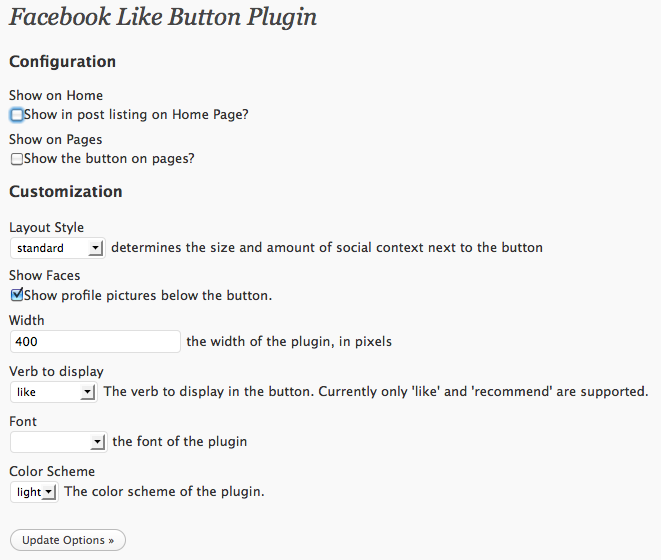
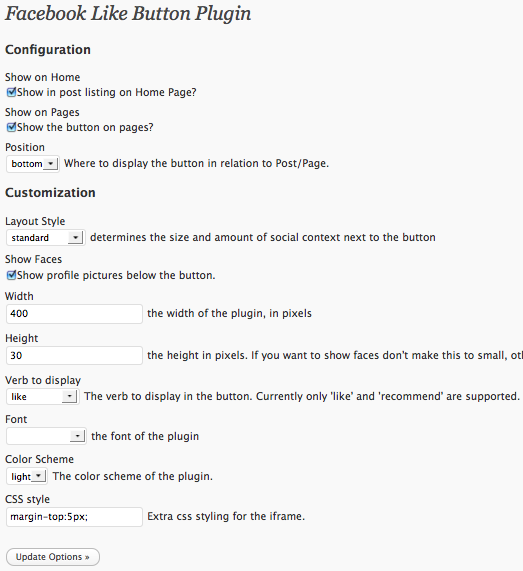
Added position, iframe css style options
git-svn-id: https://plugins.svn.wordpress.org/facebook-like-button-plugin/trunk@233903 b8457f37-d9ea-0310-8a92-e5e31aec5664

Changed region(s): [[0.0, 0.0, 1.0, 0.9107], [0.0, 0.9411, 0.1836, 1.0]]

diff --git a/facebook-like-button-plugin.php b/facebook-like-button-plugin.php
@@ -3,7 +3,7 @@
  * Plugin Name: Facebook Like Button Plugin
  * Plugin URI: http://martinj.net/wordpress-plugins/facebook-like-button
  * Description: The new Facebook like button.
- * Version: 1.0
+ * Version: 1.1
  * Author: Martin Jonsson
  * Author URI: http://martinj.net
  *
@@ -19,15 +19,21 @@ function facebook_like_button_plugin_output($out = '') {
 	
 	if (!$options['show_on_pages'] && is_page()) return $out;
 	if (!$options['show_on_home'] && is_home()) return $out;
-$out .= 
-	'<p><iframe src="http://www.facebook.com/plugins/like.php?href='.urlencode(get_permalink($post->id)).
-	'&amp;layout=' .$options['layout']. 
-	'&amp;'. ($options['show_faces'] ? 'show_faces=true' : '') .
-	'&amp;width=' . $options['width'] .
-	'&amp;action=' . $options['action'] .
-	(strlen($options['font']) > 0 ? '&amp;font=' . $options['font'] : '') .
-	'&amp;colorscheme=' . $options['colorscheme'] .
-	'" scrolling="no" frameborder="0" allowTransparency="true" style="border:none; overflow:hidden; width:'.$options['width'].'px;'.($options['height'] ? 'height:'.$options['height'].'px;': '').'"></iframe></p>';
+	$iframe = 
+		'<iframe src="http://www.facebook.com/plugins/like.php?href='.urlencode(get_permalink($post->id)).
+		'&amp;layout=' .$options['layout']. 
+			'&amp;'. ($options['show_faces'] ? 'show_faces=true' : '') .
+			'&amp;width=' . $options['width'] .
+			'&amp;action=' . $options['action'] .
+			(strlen($options['font']) > 0 ? '&amp;font=' . $options['font'] : '') .
+			'&amp;colorscheme=' . $options['colorscheme'] .
+			'" scrolling="no" frameborder="0" allowTransparency="true" style="border:none; overflow:hidden; width:'.$options['width'].'px;'.($options['height'] ? 'height:'.$options['height'].'px;': '').($options['iframe_style'] ? $options['iframe_style'] : '').'"></iframe>';
+	
+	if ($options['position'] == 'top') {
+		$out = $iframe . $out;
+	} else {
+		$out .= $iframe;
+	}
 		
 	return $out;
 }
@@ -47,13 +53,14 @@ function facebook_like_button_plugin_wp_head() {
 function facebook_like_button_plugin_defaults($options) {
 	if (!isset($options['show_on_pages'])) $options['show_on_pages'] = false;	
 	if (!isset($options['show_on_home'])) $options['show_on_home'] = false;	
-	
 	if (!isset($options['show_faces'])) $options['show_faces'] = true;
 	if (!$options['layout']) $options['layout'] = 'standard';
 	if (!$options['width']) $options['width'] = '450';
 	if (!$options['action']) $options['action'] = 'like';
 	if (!$options['colorscheme']) $options['colorscheme'] = 'light';
-
+	if (!$options['position']) $options['position'] = 'bottom';
+	if (!isset($options['iframe_style'])) $options['iframe_style'] = 'margin-top:5px;';		
+	
 	return $options;
 }
 
@@ -71,6 +78,9 @@ function facebook_like_button_plugin_options() {
 		$submitted_options['action'] = stripslashes($_POST["action"]);
 		$submitted_options['font'] = stripslashes($_POST["font"]);
 		$submitted_options['colorscheme'] = stripslashes($_POST["colorscheme"]);
+		$submitted_options['position'] = stripslashes($_POST["position"]);
+		$submitted_options['iframe_style'] = stripslashes($_POST["iframe_style"]);
+				
 		update_option('facebook_like_button_plugin_options', serialize($submitted_options));
 	}
 	
@@ -96,6 +106,16 @@ function facebook_like_button_plugin_options() {
 				</dt>
 					<dd>
 						<input name="show_on_pages" id="param_show_on_pages" value="true" '.($options['show_on_pages'] ? 'checked="1"' : '').' type="checkbox"><label for="param_show_on_pages">Show the button on pages?</label>					
+					</dd>
+				<dt>
+					Position
+				</dt>
+					<dd>
+						<select name="position">
+							<option value="bottom" '. ($options['position'] == 'bottom' ? 'selected="1"' : '') . '>bottom</option>
+							<option value="top" '. ($options['position'] == 'top' ? 'selected="1"' : '') . '>top</option>
+						</select>
+						<span>Where to display the button in relation to Post/Page.</span>
 					</dd>
 			</dl>
 			
@@ -129,7 +149,7 @@ function facebook_like_button_plugin_options() {
 				</dt>
 					<dd>
 						<input name="height" id="param_height" value="'.$options['height'].'" class="small-text" type="text">
-						<span>the height in pixels. If you want to show faces you probably want to leave this alone, otherwise 30 is a good height.</span>
+						<span>the height in pixels. If you want to show faces don\'t make this to small, otherwise 30 is a good height.</span>
 					</dd>
 				<dt>
 					<label for="param_action">Verb to display</label>
@@ -166,6 +186,13 @@ function facebook_like_button_plugin_options() {
 						</select>
 						<span>The color scheme of the plugin.</span>
 					</dd>
+				<dt>
+					<label for="param_iframe_style">CSS style</label>
+				</dt>
+					<dd>
+						<input name="iframe_style" id="param_iframe_style" value="'.$options['iframe_style'].'" class="regular-text" type="text">
+						<span>Extra css styling for the iframe.</span>
+					</dd>					
 			</dl>
 			<p class="submit">
 				<input type="submit" name="fb_like_button_submit" value="Update Options &raquo;" />
